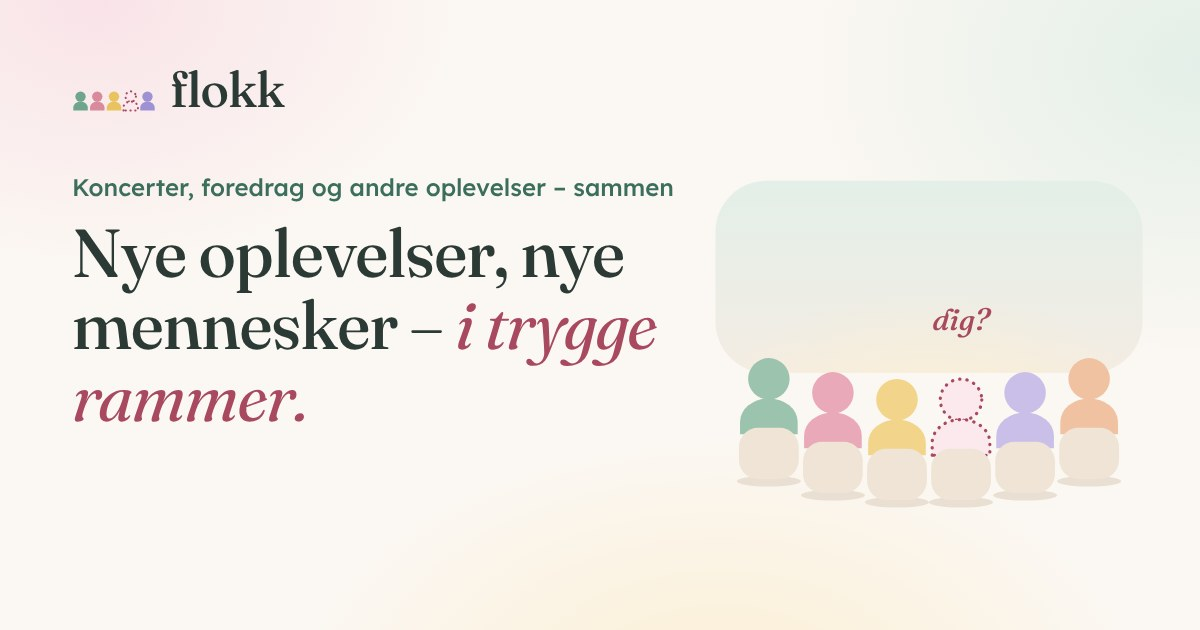
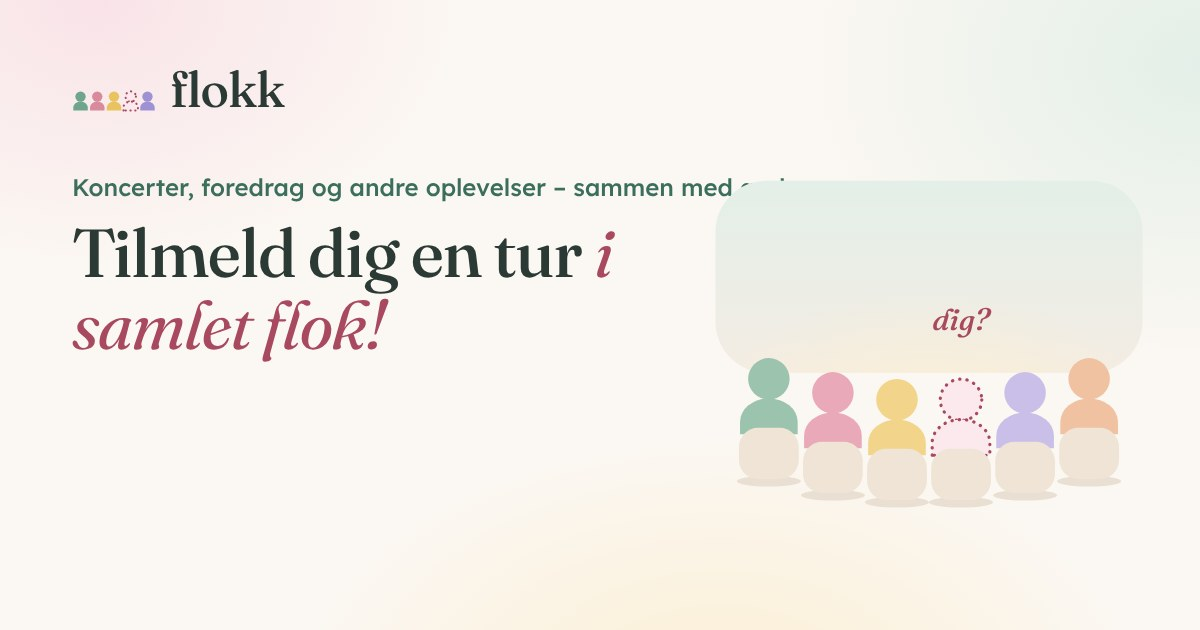
Flokk: new front-page text and a carousel of example ture
The hero says "Tilmeld dig en tur i samlet flok!" with the new intro, in place of
the rotating headlines. Under it, a carousel of made-up examples, each labelled
"Eksempel", naming no real organiser, venue, date or price; arrow buttons
scroll it, and it also scrolls by swipe and keys. Share image follows the new headline.

Claude-Session: https://claude.ai/code/session_01R4Vg4UURLwM56wBpxxSQqy

Changed region(s): [[0.0617, 0.3619, 0.555, 0.6032], [0.0617, 0.6032, 0.2467, 0.6937], [0.555, 0.2714, 0.6167, 0.3317]]

diff --git a/apps/holistisk/src/forening/pages.ts b/apps/holistisk/src/forening/pages.ts
@@ -3,7 +3,7 @@ import { html, raw, type SafeHtml } from "../web/html.js";
 import { crumbsNav, page, type Crumb, type PageContext } from "../web/layout.js";
 import type { View } from "../web/pages.js";
 import type { InquiryErrors, InquiryForm } from "../flokken/partners.js";
-import { ROW_ART } from "./brand.js";
+import { flockArt, ROW_ART } from "./brand.js";
 import type { FormErrors } from "./forms.js";
 import type { PickRow } from "./store.js";
 
@@ -54,27 +54,54 @@ const FRAME: Array<[string, string]> = [
   ["Klare frister", `Tilmelding og afbud lukker ${CLOSES_DAYS} dage før. Indtil da går din plads videre til ventelisten, og du får beløbet tilbage.`]
 ];
 
-/** The front page's headline takes turns between these, one per visit. */
-export const HEADLINES: SafeHtml[] = [
-  html`Nye oplevelser, nye mennesker – <em>i trygge rammer.</em>`,
-  html`Kom med ud – <em>vi har gemt en plads til dig.</em>`,
-  html`Oplev mere sammen med nye mennesker – <em>trygt og uden pres.</em>`
+/** Made-up examples of what a tur can be, for the front page's carousel. They are labelled as examples on the page
+ * and name no real organiser, venue, date or price. */
+type Example = { kind: string; title: string; when: string; area: string; flock: number; after: string; tint: string };
+export const EXAMPLES: Example[] = [
+  { kind: "Koncert", title: "Jazz i et lille spillested", when: "Torsdag aften", area: "Aarhus C", flock: 6, after: "En kop te i baren", tint: "butter" },
+  { kind: "Foredrag", title: "Foredrag om søvn og hverdagsro", when: "Tirsdag aften", area: "Aarhus N", flock: 5, after: "Kaffe og kage i foyeren", tint: "green" },
+  { kind: "Kunst", title: "Rundvisning i en ny udstilling", when: "Lørdag formiddag", area: "Aarhus C", flock: 4, after: "Frokost i museets café", tint: "lilac" },
+  { kind: "Natur", title: "Guidet tur i skoven ved kysten", when: "Søndag formiddag", area: "Aarhus syd", flock: 6, after: "Kaffe fra termokanden ved stranden", tint: "green" },
+  { kind: "Film", title: "Filmaften i en foreningsbiograf", when: "Onsdag aften", area: "Aarhus V", flock: 5, after: "En snak om filmen i caféen", tint: "rose" },
+  { kind: "Musik", title: "Fællessang i en gammel kirke", when: "Søndag eftermiddag", area: "Risskov", flock: 6, after: "Gåtur tilbage mod byen", tint: "butter" },
+  { kind: "Teater", title: "Forestilling på en lille scene", when: "Fredag aften", area: "Aarhus C", flock: 4, after: "Et glas i teatrets bar", tint: "peach" },
+  { kind: "Værksted", title: "Keramik for begyndere", when: "Lørdag eftermiddag", area: "Aarhus Ø", flock: 5, after: "Te, mens leret tørrer", tint: "lilac" }
 ];
 
-export function homePage(ctx: PageContext, picks: PickRow[], headline = 0): View {
+function exampleCarousel(): SafeHtml {
+  return html`<section class="f-section f-examples" aria-labelledby="h-examples">
+    <div class="f-section-head"><h2 id="h-examples">Sådan kan en tur se ud</h2><p class="f-examples-nav" data-carousel-nav hidden><button type="button" data-dir="-1" aria-label="Forrige eksempler">←</button><button type="button" data-dir="1" aria-label="Næste eksempler">→</button></p></div>
+    <p class="f-examples-note">Eksempler til inspiration – ikke rigtige ture endnu.</p>
+    <ul class="f-carousel" data-carousel tabindex="0" aria-label="Eksempler på ture">
+      ${EXAMPLES.map(e => html`<li class="f-ex f-ex-${e.tint}">
+        <div class="f-ex-art"><span class="f-ex-tag">Eksempel</span>${flockArt(e.flock)}</div>
+        <div class="f-ex-body">
+          <p class="f-ex-kind">${e.kind}</p>
+          <h3>${e.title}</h3>
+          <p class="f-ex-meta">${e.when} · ${e.area}</p>
+          <p class="f-ex-meta">Flok på ${e.flock} · mødested på forhånd</p>
+          <p class="f-ex-after">${e.after}</p>
+        </div>
+      </li>`)}
+    </ul>
+  </section>`;
+}
+
+export function homePage(ctx: PageContext, picks: PickRow[]): View {
   const body = html`
 <section class="f-hero">
   <div class="wrap f-hero-inner">
     <div class="f-hero-text">
       <p class="f-kicker">Koncerter, foredrag og andre oplevelser – sammen med andre</p>
-      <h1>${HEADLINES[headline % HEADLINES.length]!}</h1>
-      <p class="standfirst">Flokk gør det lettere at opleve mere sammen med andre. Hver måned laver vi aftaler med arrangører om billetter til udvalgte koncerter, foredrag og andre oplevelser. Som medlem kan du tilmelde dig en Udflugt til et symbolsk beløb. Du får program og mødested på forhånd og følges med en lille flok andre medlemmer. Du deltager på din egen måde, og bagefter er der mulighed for at mødes og snakke om oplevelsen.</p>
+      <h1>Tilmeld dig en tur <em>i samlet flok!</em></h1>
+      <p class="standfirst">Oplev et arrangement sammen med mennesker, du ikke kender endnu. Som medlem kan du tilmelde dig en tur til et symbolsk beløb. Du får program og mødested på forhånd og følges med en lille flok andre medlemmer. Du skal bare komme og være dig selv. Bagefter er der mulighed for at mødes og snakke om oplevelsen.</p>
       <p class="f-actions"><a class="button" href="/bliv-medlem">Bliv medlem</a> <a class="button-secondary" href="/saadan-fungerer-det">Sådan fungerer det</a></p>
     </div>
     <div class="f-row">${ROW_ART}</div>
   </div>
 </section>
 <div class="wrap">
+  ${exampleCarousel()}
   <section class="f-section" aria-labelledby="h-picks">
     <div class="f-section-head"><h2 id="h-picks">Kommende Udflugter</h2>${picks.length ? html`<a class="more" href="/udflugter">Alle →</a>` : ""}</div>
     ${picksBlock(picks.slice(0, 6), ctx.now)}

diff --git a/apps/holistisk/public/assets/site.css b/apps/holistisk/public/assets/site.css
@@ -800,3 +800,29 @@ button:active, .button:active { transform: translateY(3px); box-shadow: 0 0 0 va
 [data-edition="forening"] .site-footer .wordmark-flokk .mark-flokk [fill="#17332d"] { fill: currentColor; }
 [data-edition="forening"] .admin-table { border-radius: 18px; box-shadow: var(--soft-shadow); }
 [data-edition="forening"] .admin-table th { font-weight: 500; }
+
+/* Flokk's front page: a carousel of made-up examples of a tur, under the hero. */
+.f-examples-note { color: var(--muted); margin: -6px 0 18px; font-size: .95rem; }
+.f-examples-nav { display: flex; gap: 8px; margin: 0; }
+.f-examples-nav[hidden] { display: none; }
+.f-examples-nav button { width: 44px; height: 44px; border-radius: 50%; border: 0; background: var(--card); color: var(--ink); box-shadow: var(--soft-shadow); font: 400 1.1rem var(--sans); cursor: pointer; }
+.f-examples-nav button:hover { background: var(--berry-soft); color: var(--berry-dark); }
+.f-carousel { list-style: none; margin: 0 -16px; padding: 6px 16px 26px; display: grid; grid-auto-flow: column; grid-auto-columns: min(78vw, 276px); gap: 20px;
+  overflow-x: auto; scroll-snap-type: x mandatory; scroll-padding: 0 16px; scrollbar-width: none; overscroll-behavior-x: contain; }
+.f-carousel::-webkit-scrollbar { display: none; }
+.f-carousel:focus-visible { outline: 3px solid var(--focus); outline-offset: 2px; border-radius: var(--radius); }
+.f-ex { scroll-snap-align: start; background: var(--card); border-radius: var(--radius); box-shadow: var(--soft-shadow); overflow: hidden; display: flex; flex-direction: column; }
+.f-ex-art { position: relative; height: 128px; display: flex; align-items: flex-end; justify-content: center; padding-bottom: 14px; background: var(--green-soft); }
+.f-ex-butter .f-ex-art { background: var(--butter-soft); }
+.f-ex-lilac .f-ex-art { background: var(--lilac); }
+.f-ex-rose .f-ex-art { background: var(--berry-soft); }
+.f-ex-peach .f-ex-art { background: var(--peach); }
+.f-ex-flock { height: 46px; width: auto; }
+.f-ex-tag { position: absolute; top: 14px; left: 16px; background: rgba(255, 255, 255, .85); color: var(--ink-2); border-radius: 999px; padding: 2px 12px; font-size: .78rem; font-weight: 500; }
+.f-ex-body { padding: 18px 22px 22px; }
+.f-ex-kind { margin: 0 0 4px; color: var(--green-2); font-size: .8rem; font-weight: 500; text-transform: uppercase; letter-spacing: .06em; }
+.f-ex h3 { font-size: 1.3rem; line-height: 1.2; margin: 0 0 10px; }
+.f-ex-meta { margin: 0; color: var(--ink-2); font-size: .95rem; }
+.f-ex-after { margin: 10px 0 0; color: var(--berry-dark); font-size: .95rem; }
+.f-ex-after::before { content: "Bagefter: "; font-weight: 500; }
+@media (min-width: 900px) { .f-carousel { margin: 0; padding: 6px 2px 26px; scroll-padding: 0; } }

diff --git a/apps/holistisk/test/forening.test.ts b/apps/holistisk/test/forening.test.ts
@@ -57,17 +57,18 @@ describe("Flokk", () => {
     const home = await call("/");
     expect(home.status).toBe(200);
     expect(home.body).toContain('data-edition="forening"');
-    expect(home.body).toMatch(/<h1>(Nye oplevelser, nye mennesker – <em>i trygge rammer\.<\/em>|Kom med ud – <em>vi har gemt en plads til dig\.<\/em>|Oplev mere sammen med nye mennesker – <em>trygt og uden pres\.<\/em>)<\/h1>/);
-    // The headline takes turns: every one of the three shows up over a few visits.
-    const seen = new Set<string>();
-    for (let i = 0; i < 40 && seen.size < 3; i++) seen.add(/<h1>([\s\S]*?)<\/h1>/.exec((await call("/")).body)![1]!);
-    expect(seen.size).toBe(3);
+    expect(home.body).toContain("<h1>Tilmeld dig en tur <em>i samlet flok!</em></h1>");
     expect(home.body).toContain("<title>Flokk – nye oplevelser, nye mennesker, i trygge rammer</title>");
     expect(home.body).toContain('class="mark mark-flokk"');
     expect(home.body).toContain('href="/assets/flokk-icon.svg"');
     expect(home.body).toContain("/assets/og-flokk.jpg");
     expect(home.body).not.toContain("Flokken");
-    expect(home.body).toContain("Flokk gør det lettere at opleve mere sammen med andre.");
+    expect(home.body).toContain("Oplev et arrangement sammen med mennesker, du ikke kender endnu.");
+    // Under the hero, a carousel of made-up examples – labelled as examples, never as Udflugter one can join.
+    expect(home.body).toContain("Sådan kan en tur se ud");
+    expect(home.body).toContain("Eksempler til inspiration – ikke rigtige ture endnu.");
+    expect(home.body.match(/<span class="f-ex-tag">Eksempel<\/span>/g)?.length).toBe(8);
+    expect(home.body.indexOf("Sådan kan en tur se ud")).toBeLessThan(home.body.indexOf("Kommende Udflugter"));
     expect(home.body).toContain("De første Udflugter er ved at blive planlagt");
     expect(home.body).toContain('href="/bliv-medlem"');
     for (const frame of ["Du ved, hvad der skal ske", "En lille flok", "På din egen måde", "Klare frister"]) expect(home.body).toContain(frame);

diff --git a/apps/holistisk/src/web/layout.ts b/apps/holistisk/src/web/layout.ts
@@ -109,8 +109,8 @@ ${forening ? html`<link rel="icon" href="/assets/flokk-icon.svg" type="image/svg
 <link rel="preload" href="/assets/fonts/lexend-latin.woff2" as="font" type="font/woff2" crossorigin>` : html`<link rel="icon" href="/favicon.svg" type="image/svg+xml">
 <link rel="preload" href="/assets/fonts/fredoka-latin.woff2" as="font" type="font/woff2" crossorigin>
 <link rel="preload" href="/assets/fonts/nunito-latin.woff2" as="font" type="font/woff2" crossorigin>`}
-<link rel="stylesheet" href="/assets/site.css?v=16">
-<script src="/assets/site.js?v=7" defer></script>
+<link rel="stylesheet" href="/assets/site.css?v=17">
+<script src="/assets/site.js?v=8" defer></script>
 ${(meta.styles ?? []).map(href => html`<link rel="stylesheet" href="${href}">`)}
 ${(meta.scripts ?? []).map(src => html`<script src="${src}" defer></script>`)}
 ${jsonLd.map(data => html`<script type="application/ld+json">${jsonScript(data)}</script>`)}

diff --git a/apps/holistisk/src/forening/routes.ts b/apps/holistisk/src/forening/routes.ts
@@ -40,7 +40,7 @@ export async function foreningRoute(request: Request, env: Env, db: D1Database, 
   const member = await currentFlokkMember(db, request, now);
   ctx = { ...ctx, member: isFlokkMember(member) ? { firstName: member.first_name, admin: member.is_admin === 1 } : null };
 
-  if (path === "/" && !post) return { view: pages.homePage(ctx, await upcomingPicks(db, now), Math.floor(Math.random() * pages.HEADLINES.length)) };
+  if (path === "/" && !post) return { view: pages.homePage(ctx, await upcomingPicks(db, now)) };
   if (path === "/udflugter" && !post) return { view: pages.picksPage(ctx, await upcomingPicks(db, now)) };
   if (path === "/saadan-fungerer-det" && !post) return { view: pages.howPage(ctx) };
   if (path === "/om" && !post) return { view: pages.aboutPage(ctx) };

diff --git a/apps/holistisk/public/assets/site.js b/apps/holistisk/public/assets/site.js
@@ -59,4 +59,18 @@
       }, { maximumAge: 600000, timeout: 10000 });
     });
   }
+
+  // Flokk's example carousel: arrow buttons that scroll it a card at a time (it also scrolls by swipe and keys).
+  document.querySelectorAll("[data-carousel]").forEach(function (list) {
+    var nav = list.parentNode.querySelector("[data-carousel-nav]");
+    if (!nav) return;
+    nav.hidden = false;
+    nav.querySelectorAll("button").forEach(function (button) {
+      button.addEventListener("click", function () {
+        var card = list.querySelector("li");
+        var step = card ? card.getBoundingClientRect().width + 20 : list.clientWidth * 0.8;
+        list.scrollBy({ left: step * Number(button.getAttribute("data-dir")), behavior: "smooth" });
+      });
+    });
+  });
 })();

diff --git a/apps/holistisk/src/forening/brand.ts b/apps/holistisk/src/forening/brand.ts
@@ -37,3 +37,11 @@ ${[70, 130, 190, 250, 310, 370].map((x, i) => {
 }).join("")}
 <text x="250" y="150" text-anchor="middle" font-family="Fraunces, Georgia, serif" font-style="italic" font-weight="500" font-size="28" fill="${FREE}">dig?</text>
 </svg>`);
+
+const FLOCK_COLOURS = ["#6fa58c", "#d98a9d", "#e8c35f", "#9f92d4", "#e9a37f", "#7fb3c4"] as const;
+
+/** A small flock of `n` side by side, for the example cards. */
+export function flockArt(n: number): ReturnType<typeof raw> {
+  const w = 22, gap = 5, width = n * w + (n - 1) * gap + 4;
+  return raw(`<svg class="f-ex-flock" viewBox="0 0 ${width} 34" aria-hidden="true">${Array.from({ length: n }, (_, i) => figure(2 + w / 2 + i * (w + gap), 33, w, FLOCK_COLOURS[i % FLOCK_COLOURS.length]!, 1.6)).join("")}</svg>`);
+}

diff --git a/docs/holistisk/README.md b/docs/holistisk/README.md
@@ -17,7 +17,8 @@ The collector serves both: the portal shows its events, Flokken's volunteers pic
 - **Interest list** (`interests`): the earlier list, kept for the volunteers (and deletable on `/privatliv`); new sign-ups go to membership.
 - **Admin** (`/admin`, after logging in): suggestions from the collector (search, "Godkend"), a form for an Udflugt typed in (with places, meeting place and time, programme), editing and withdrawing, each Udflugt's participants and waiting list with a mail per participant, cancelling Flokk's participation, the members (a new code for one who lost theirs), the interest list (and CSV, safe against spreadsheet formulas) and inquiries from organisers. Only members with `is_admin = 1`; create one with `node apps/holistisk/scripts/new-admin.mjs "Fornavn"` and run the printed SQL with `wrangler d1 execute`.
 - **Tone**: the experiences, the company and the clear frame; members take part in their own way. `test/forening.test.ts` checks the public pages for host, deficit and undecided wording.
-- **Look**: its own, on the portal's colours. The mark is a row of people side by side with one place free – "there is always room for one more"; large on the front page it is a small flock seen from behind on a row of seats in front of a stage, with one empty seat (`src/forening/brand.ts`; `public/assets/flokk-icon.svg` in the tab, `public/assets/og-flokk.jpg` when shared). Fraunces for headings and Atkinson Hyperlegible, drawn to be easy to read, for text (both SIL OFL, `public/assets/fonts`). Thin lines, soft shadows, more air. `data-edition="forening"` on `<html>` switches it on.
+- **Look**: its own and soft, apart from Socialklubben's chunky one, in the same colour family made pale (cream, sage, dusty rose, butter, lavender, peach). The mark is a row of people side by side with one place free – "there is always room for one more"; large on the front page it is a small flock seen from behind on a row of seats in front of a stage, with one empty seat (`src/forening/brand.ts`; `public/assets/flokk-icon.svg` in the tab, `public/assets/og-flokk.jpg` when shared). Filled shapes without outlines, colour clouds in the hero, borderless cards with soft shadows, a light footer. A lighter Fraunces for headings and Lexend for text (both SIL OFL, `public/assets/fonts`). `data-edition="forening"` on `<html>` switches it on.
+- **Front page**: the headline "Tilmeld dig en tur i samlet flok!" and, under the hero, a carousel "Sådan kan en tur se ud" of made-up examples (`EXAMPLES` in `src/forening/pages.ts`). Each is labelled "Eksempel" and the section says they are not real ture yet; they name no real organiser, venue, date or price. Then the coming Udflugter, which are only ever real ones.
 
 ## Run it
 
